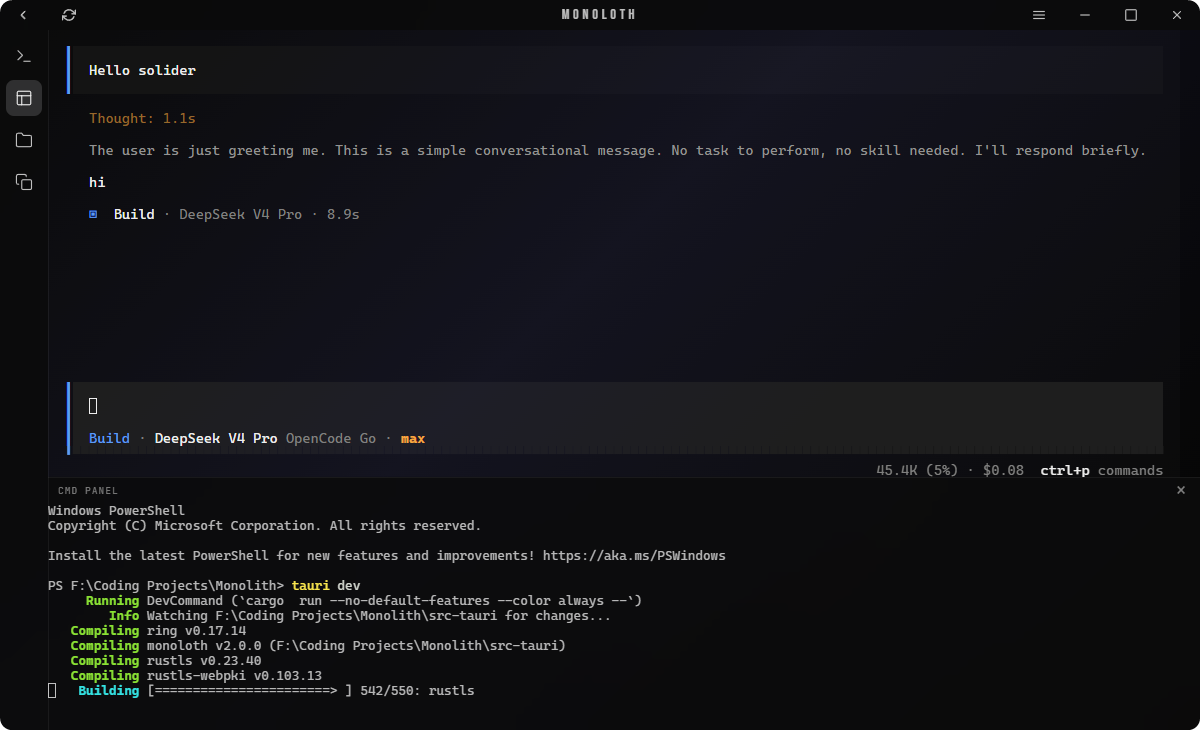
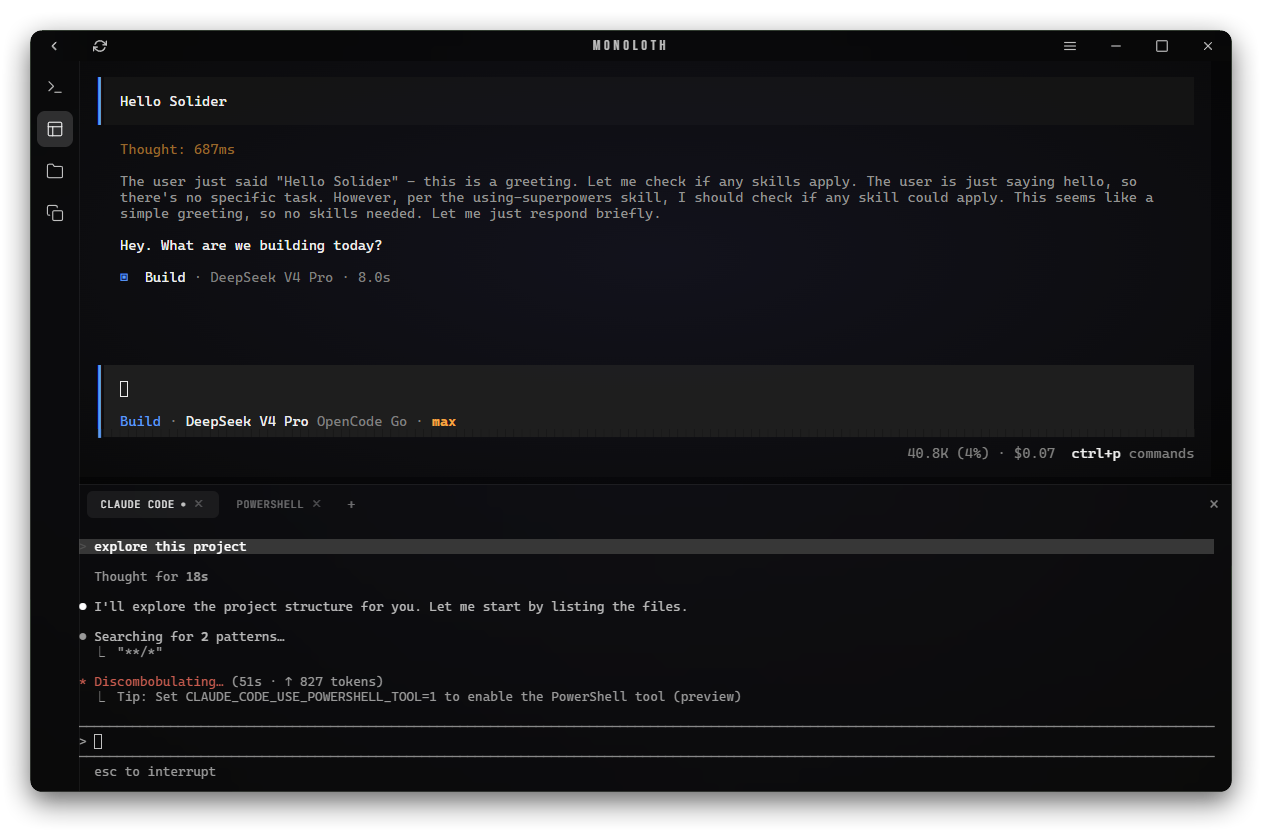
docs: update version badge to 2.1.3 and refresh main screenshot

diff --git a/README.md b/README.md
@@ -1,4 +1,4 @@
-<div align="center">
+<div align="center">
   <img src="assets/icon.png" width="144" height="144" alt="Monoloth" />
 <div id="toc">
   <ul style="list-style: none">
@@ -11,7 +11,7 @@
   <p><strong>Agent-agnostic desktop shell for CLI coding tools</strong></p>
 
   <p>
-    <img src="https://img.shields.io/badge/version-2.0.7-blue" alt="version" />
+    <img src="https://img.shields.io/badge/version-2.1.3-blue" alt="version" />
     <img src="https://img.shields.io/badge/license-MIT-green" alt="license" />
     <img src="https://img.shields.io/badge/platform-Windows-lightgrey" alt="platform" />
     <img src="https://img.shields.io/badge/rust-1.77.2-orange" alt="rust" />
@@ -105,44 +105,44 @@ The system serves frontend assets directly from the `frontend/` directory, requi
 
 ```
 Monoloth/
-â”œâ”€â”€ src-tauri/                  # Rust backend configuration
-â”‚   â”œâ”€â”€ src/
-â”‚   â”‚   â”œâ”€â”€ main.rs             # Execution entry point
-â”‚   â”‚   â”œâ”€â”€ lib.rs              # Tauri setup and window events
-â”‚   â”‚   â”œâ”€â”€ commands/           # Tauri IPC commands
-â”‚   â”‚   â”‚   â”œâ”€â”€ config.rs       # Profile and background configurations
-â”‚   â”‚   â”‚   â”œâ”€â”€ fs.rs           # File operations and previews
-â”‚   â”‚   â”‚   â”œâ”€â”€ history.rs      # Session history queries
-â”‚   â”‚   â”‚   â”œâ”€â”€ image.rs        # Image reading and analysis
-â”‚   â”‚   â”‚   â”œâ”€â”€ profile.rs      # Profile operations
-â”‚   â”‚   â”‚   â”œâ”€â”€ shell.rs        # External execution handling
-â”‚   â”‚   â”‚   â”œâ”€â”€ terminal.rs     # Terminal session management
-â”‚   â”‚   â”‚   â””â”€â”€ window.rs       # Window controls
-â”‚   â”‚   â”œâ”€â”€ config.rs           # Profile serialization and sanitization
-â”‚   â”‚   â”œâ”€â”€ history.rs          # History tracking
-â”‚   â”‚   â””â”€â”€ pty.rs              # Terminal manager interface
-â”‚   â”œâ”€â”€ Cargo.toml
-â”‚   â””â”€â”€ tauri.conf.json
-â”œâ”€â”€ frontend/
-â”‚   â”œâ”€â”€ index.html              # HTML structure
-â”‚   â”œâ”€â”€ app.js                  # Main application controller
-â”‚   â”œâ”€â”€ sidebar.js              # Sidebar logic
-â”‚   â”œâ”€â”€ tauri-bridge.js         # IPC layer
-â”‚   â”œâ”€â”€ dom-utils.js            # User interface utilities
-â”‚   â”œâ”€â”€ tooltip.js              # Custom tooltips
-â”‚   â”œâ”€â”€ style.css               # Application stylesheet
-â”‚   â””â”€â”€ lib/
-â”‚       â”œâ”€â”€ xterm.js            # Terminal rendering library
-â”‚       â”œâ”€â”€ xterm-addon-fit.js  # Terminal fit plugin
-â”‚       â”œâ”€â”€ xterm-addon-webgl.js# Terminal WebGL acceleration
-â”‚       â”œâ”€â”€ plugin-updater.js   # Updater wrapper
-â”‚       â”œâ”€â”€ plugin-process.js   # Process wrapper
-â”‚       â””â”€â”€ updater-toast.js    # Update notifications
-â”œâ”€â”€ assets/
-â”‚   â”œâ”€â”€ icon.png
-â”‚   â”œâ”€â”€ icon.ico
-â”‚   â””â”€â”€ screenshots/
-â””â”€â”€ .github/workflows/release.yml
+├── src-tauri/                  # Rust backend configuration
+│   ├── src/
+│   │   ├── main.rs             # Execution entry point
+│   │   ├── lib.rs              # Tauri setup and window events
+│   │   ├── commands/           # Tauri IPC commands
+│   │   │   ├── config.rs       # Profile and background configurations
+│   │   │   ├── fs.rs           # File operations and previews
+│   │   │   ├── history.rs      # Session history queries
+│   │   │   ├── image.rs        # Image reading and analysis
+│   │   │   ├── profile.rs      # Profile operations
+│   │   │   ├── shell.rs        # External execution handling
+│   │   │   ├── terminal.rs     # Terminal session management
+│   │   │   └── window.rs       # Window controls
+│   │   ├── config.rs           # Profile serialization and sanitization
+│   │   ├── history.rs          # History tracking
+│   │   └── pty.rs              # Terminal manager interface
+│   ├── Cargo.toml
+│   └── tauri.conf.json
+├── frontend/
+│   ├── index.html              # HTML structure
+│   ├── app.js                  # Main application controller
+│   ├── sidebar.js              # Sidebar logic
+│   ├── tauri-bridge.js         # IPC layer
+│   ├── dom-utils.js            # User interface utilities
+│   ├── tooltip.js              # Custom tooltips
+│   ├── style.css               # Application stylesheet
+│   └── lib/
+│       ├── xterm.js            # Terminal rendering library
+│       ├── xterm-addon-fit.js  # Terminal fit plugin
+│       ├── xterm-addon-webgl.js# Terminal WebGL acceleration
+│       ├── plugin-updater.js   # Updater wrapper
+│       ├── plugin-process.js   # Process wrapper
+│       └── updater-toast.js    # Update notifications
+├── assets/
+│   ├── icon.png
+│   ├── icon.ico
+│   └── screenshots/
+└── .github/workflows/release.yml
 ```
 </details>
 
@@ -170,7 +170,7 @@ The application stores settings at `%APPDATA%/Monoloth/config.json` and saves us
 
 ### Tech Stack
 
-Rust 1.77.2 â€¢ Tauri 2.11.1 â€¢ portable-pty â€¢ xterm.js â€¢ WebGL â€¢ Vanilla JS â€¢ HTML5 â€¢ CSS3
+Rust 1.77.2 • Tauri 2.11.1 • portable-pty • xterm.js • WebGL • Vanilla JS • HTML5 • CSS3
 
 ### License
 MIT